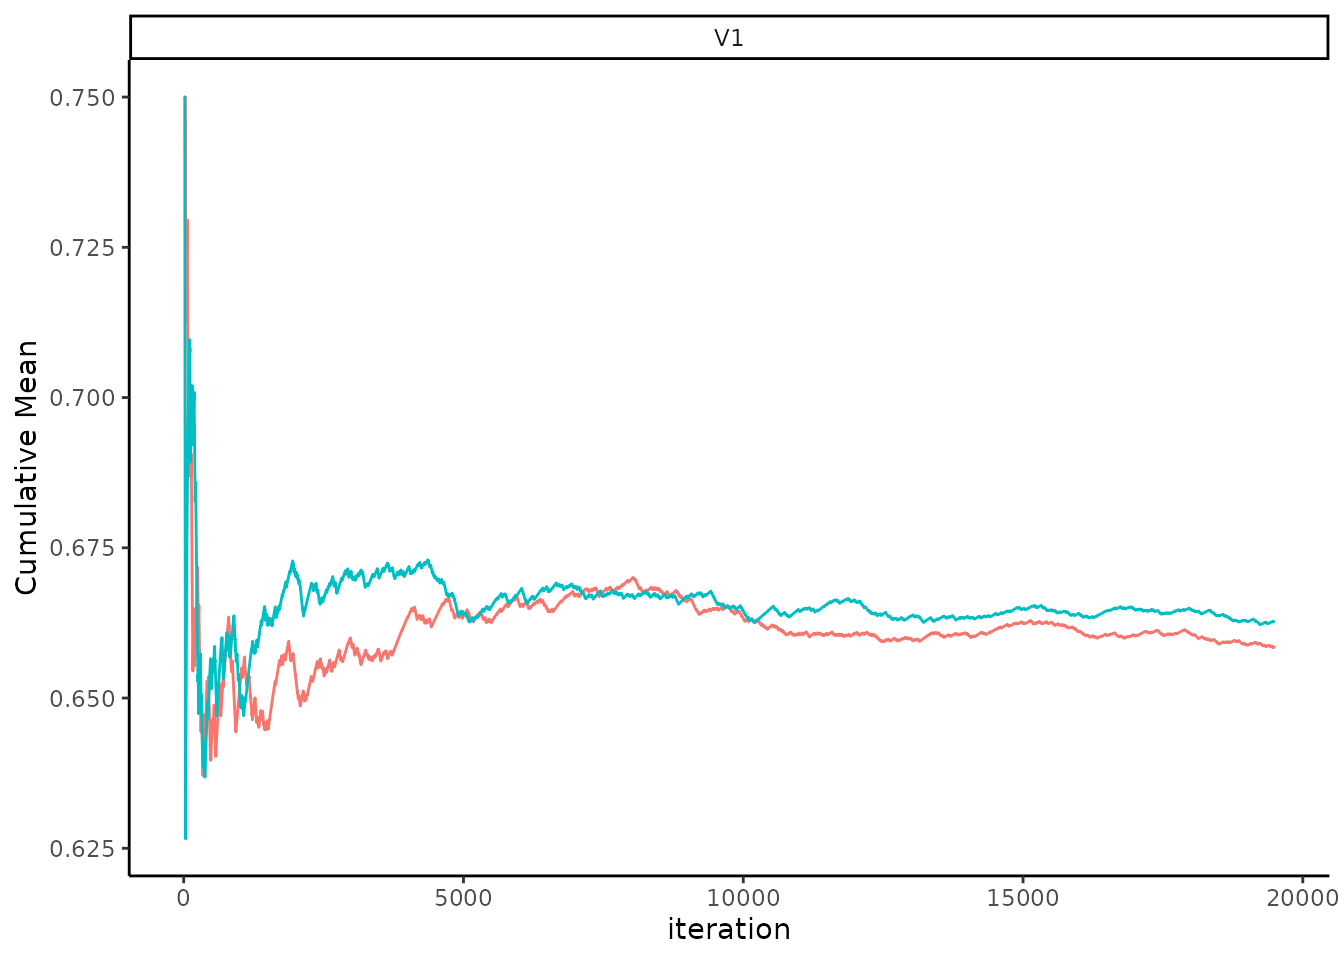
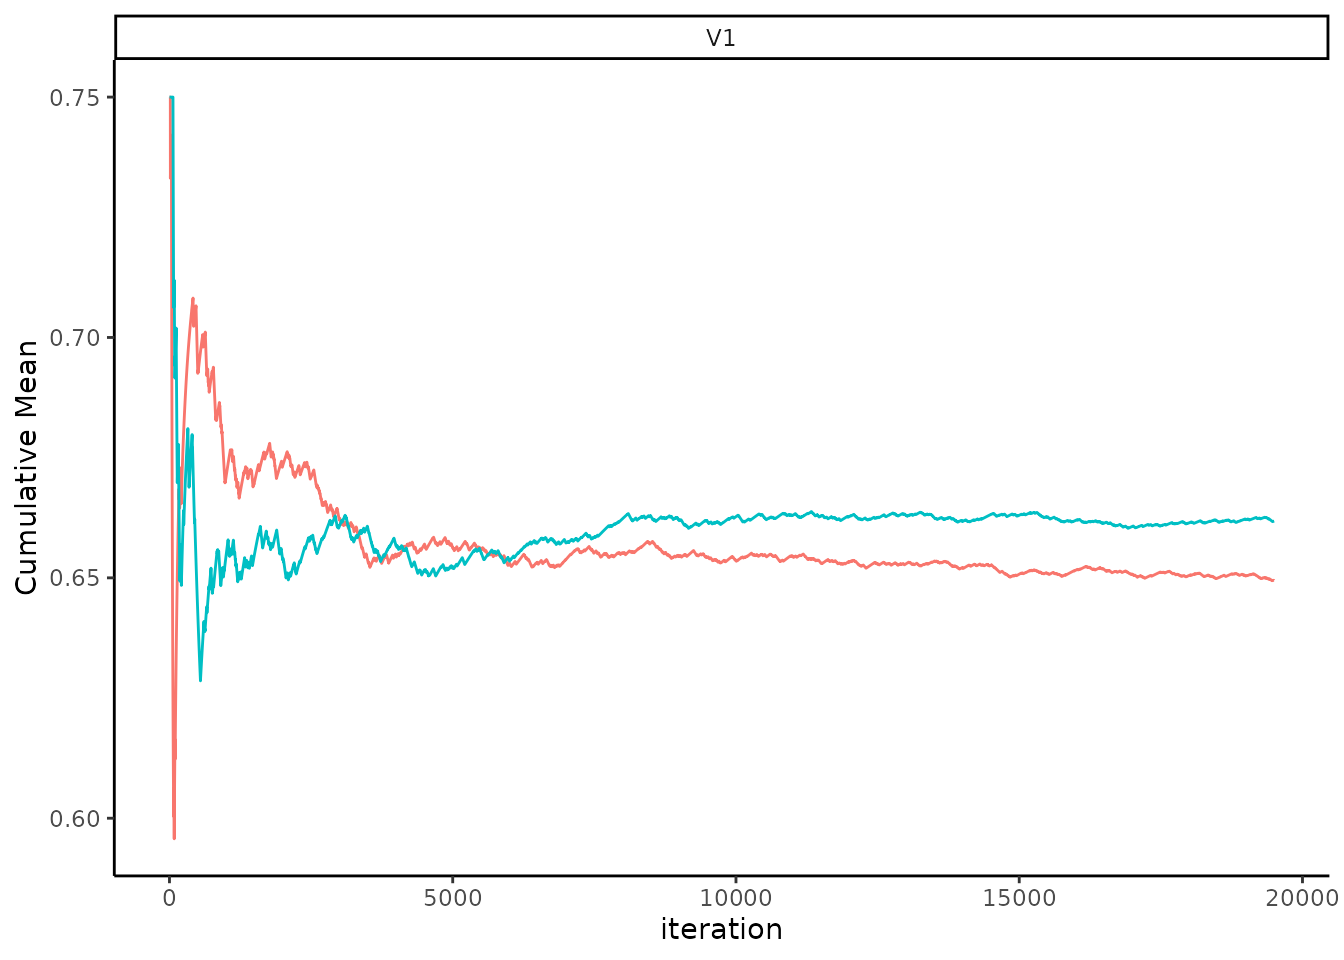
Deploying to gh-pages from @ SpaceOdyssey/cia@1183ad1cc5b3b44a3147a8d1308233372b98dd28 🚀

diff --git a/articles/three_node_example.html b/articles/three_node_example.html
@@ -325,11 +325,11 @@ this for the log-score of the partitions:</p>
 <th align="right">R_hat</th>
 </tr></thead>
 <tbody><tr class="odd">
-<td align="right">-175.5331</td>
-<td align="right">0.5243969</td>
-<td align="right">0.0064819</td>
-<td align="right">6545.149</td>
-<td align="right">1.000197</td>
+<td align="right">-175.5264</td>
+<td align="right">0.5061664</td>
+<td align="right">0.0057731</td>
+<td align="right">7687.327</td>
+<td align="right">1.000388</td>
 </tr></tbody>
 </table>
 <p>This can also be performed for the log DAG scores.</p>
@@ -344,11 +344,11 @@ this for the log-score of the partitions:</p>
 <th align="right">R_hat</th>
 </tr></thead>
 <tbody><tr class="odd">
-<td align="right">-175.5685</td>
-<td align="right">0.6395288</td>
-<td align="right">0.0067716</td>
-<td align="right">8919.428</td>
-<td align="right">1.000096</td>
+<td align="right">-175.5644</td>
+<td align="right">0.6353167</td>
+<td align="right">0.0061428</td>
+<td align="right">10696.64</td>
+<td align="right">1.000233</td>
 </tr></tbody>
 </table>
 <p>The Split R-hat statistic provides a measure of the convergence of
@@ -408,18 +408,18 @@ from different locations converge to the same distribution.</p>
 <tbody>
 <tr class="odd">
 <td align="left">1</td>
-<td align="right">0.1167692</td>
+<td align="right">0.1158974</td>
 <td align="right">1</td>
 <td align="right">1</td>
-<td align="right">2277</td>
+<td align="right">2260</td>
 <td align="right">19500</td>
 </tr>
 <tr class="even">
 <td align="left">2</td>
-<td align="right">0.1145128</td>
+<td align="right">0.1100000</td>
 <td align="right">1</td>
 <td align="right">1</td>
-<td align="right">2233</td>
+<td align="right">2145</td>
 <td align="right">19500</td>
 </tr>
 </tbody>
@@ -489,18 +489,18 @@ DAGs.</p>
 <tr class="odd">
 <td align="left">A</td>
 <td align="right">0.0000000</td>
-<td align="right">0.3314359</td>
-<td align="right">0.0098974</td>
+<td align="right">0.3496923</td>
+<td align="right">0.0087436</td>
 </tr>
 <tr class="even">
 <td align="left">B</td>
-<td align="right">0.6684103</td>
+<td align="right">0.6499744</td>
 <td align="right">0.0000000</td>
 <td align="right">0.6837692</td>
 </tr>
 <tr class="odd">
 <td align="left">C</td>
-<td align="right">0.0093846</td>
+<td align="right">0.0089744</td>
 <td align="right">0.3162308</td>
 <td align="right">0.0000000</td>
 </tr>
@@ -544,25 +544,25 @@ to reduce the error of the mean to below 1% corresponding to MCSE &lt;
 <td align="right">NaN</td>
 </tr>
 <tr class="even">
-<td align="right">0.6684103</td>
-<td align="right">0.4707905</td>
-<td align="right">0.0098903</td>
-<td align="right">2265.892</td>
-<td align="right">1.001178</td>
+<td align="right">0.6499744</td>
+<td align="right">0.4769838</td>
+<td align="right">0.0105472</td>
+<td align="right">2045.173</td>
+<td align="right">1.001774</td>
 </tr>
 <tr class="odd">
-<td align="right">0.0093846</td>
-<td align="right">0.0964198</td>
-<td align="right">0.0008098</td>
-<td align="right">14175.770</td>
-<td align="right">1.000048</td>
+<td align="right">0.0089744</td>
+<td align="right">0.0943083</td>
+<td align="right">0.0007417</td>
+<td align="right">16166.012</td>
+<td align="right">1.000073</td>
 </tr>
 <tr class="even">
-<td align="right">0.3314359</td>
-<td align="right">0.4707354</td>
-<td align="right">0.0098853</td>
-<td align="right">2267.653</td>
-<td align="right">1.001191</td>
+<td align="right">0.3496923</td>
+<td align="right">0.4768788</td>
+<td align="right">0.0105500</td>
+<td align="right">2043.215</td>
+<td align="right">1.001772</td>
 </tr>
 <tr class="odd">
 <td align="right">0.0000000</td>
@@ -574,23 +574,23 @@ to reduce the error of the mean to below 1% corresponding to MCSE &lt;
 <tr class="even">
 <td align="right">0.3162308</td>
 <td align="right">0.4650101</td>
-<td align="right">0.0100142</td>
-<td align="right">2156.215</td>
-<td align="right">1.001747</td>
+<td align="right">0.0102509</td>
+<td align="right">2057.792</td>
+<td align="right">1.000939</td>
 </tr>
 <tr class="odd">
-<td align="right">0.0098974</td>
-<td align="right">0.0989936</td>
-<td align="right">0.0009332</td>
-<td align="right">11253.472</td>
-<td align="right">1.000014</td>
+<td align="right">0.0087436</td>
+<td align="right">0.0930987</td>
+<td align="right">0.0008011</td>
+<td align="right">13505.275</td>
+<td align="right">1.000279</td>
 </tr>
 <tr class="even">
 <td align="right">0.6837692</td>
 <td align="right">0.4650101</td>
-<td align="right">0.0100142</td>
-<td align="right">2156.215</td>
-<td align="right">1.001747</td>
+<td align="right">0.0102509</td>
+<td align="right">2057.792</td>
+<td align="right">1.000939</td>
 </tr>
 <tr class="odd">
 <td align="right">0.0000000</td>
@@ -673,18 +673,18 @@ performed for these values for a complete analysis.</p>
 <tr class="odd">
 <td align="left">A</td>
 <td align="right">0.0000000</td>
-<td align="right">0.3315128</td>
-<td align="right">0.3316154</td>
+<td align="right">0.3497949</td>
+<td align="right">0.3492564</td>
 </tr>
 <tr class="even">
 <td align="left">B</td>
-<td align="right">0.6684872</td>
+<td align="right">0.6501026</td>
 <td align="right">0.0000000</td>
 <td align="right">0.6837692</td>
 </tr>
 <tr class="odd">
 <td align="left">C</td>
-<td align="right">0.3160256</td>
+<td align="right">0.3160769</td>
 <td align="right">0.3162308</td>
 <td align="right">0.0000000</td>
 </tr>
@@ -744,11 +744,11 @@ SD 95% of the time.</p>
 <th align="right">R_hat</th>
 </tr></thead>
 <tbody><tr class="odd">
-<td align="right">0.6605994</td>
-<td align="right">0.1272069</td>
-<td align="right">0.0026731</td>
-<td align="right">2264.526</td>
-<td align="right">1.001186</td>
+<td align="right">0.6556363</td>
+<td align="right">0.1288845</td>
+<td align="right">0.0028512</td>
+<td align="right">2043.4</td>
+<td align="right">1.001782</td>
 </tr></tbody>
 </table>
 <p>Let’s also look at the convergence using the cumulative mean trace
